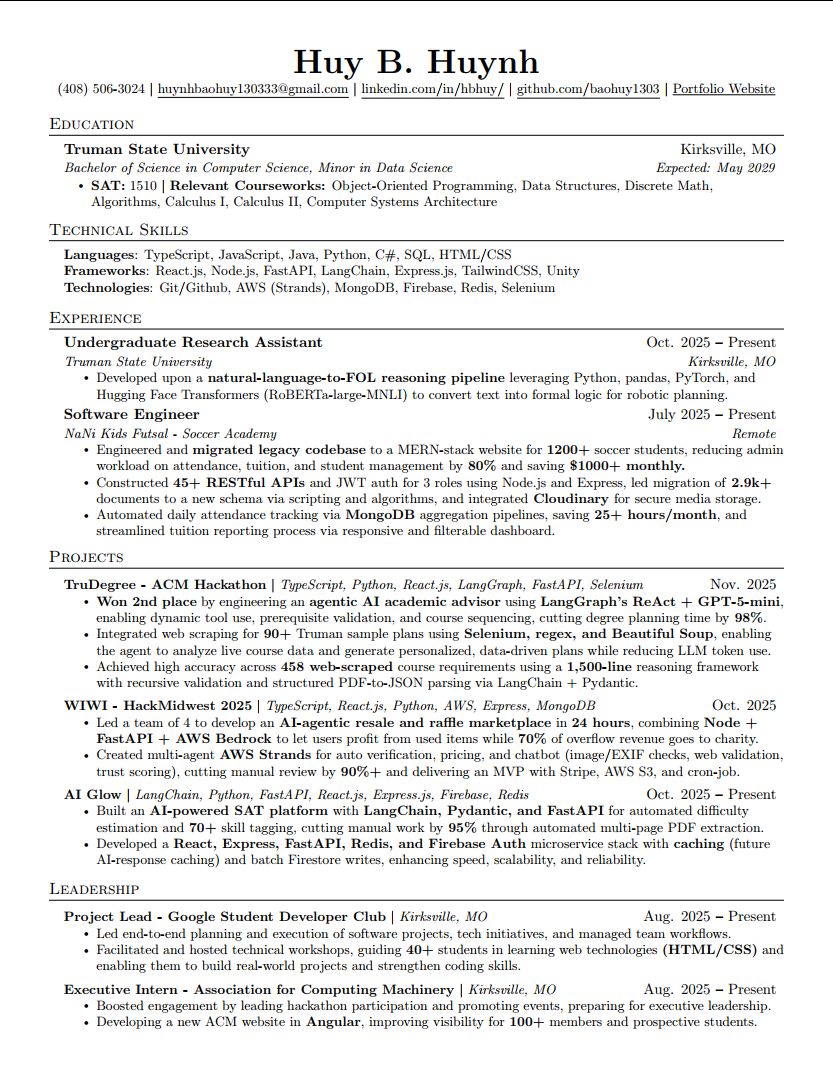
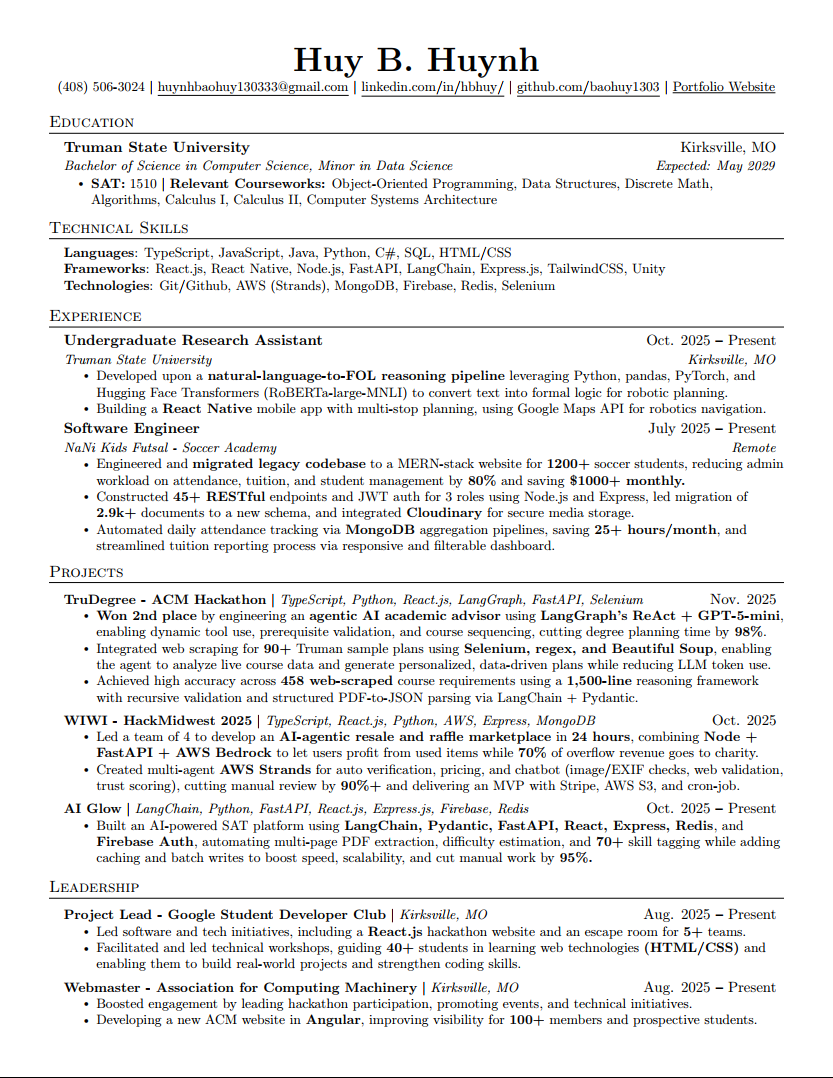
update replace res

Changed region(s): [[0.0624, 0.0306, 0.9364, 0.949]]

diff --git a/portfolio-web/src/pages/index.tsx b/portfolio-web/src/pages/index.tsx
@@ -84,6 +84,7 @@ export default function IndexPage() {
       { name: "Node.js", icon: faNode, textCol: "text-green-400" },
       { name: "Express.js", icon: faServer, textCol: "text-gray-400" },
       { name: "TailwindCSS", icon: faWind, textCol: "text-teal-400" }, // custom
+      { name: "React Native", icon: faReact, textCol: "text-blue-400" },
       { name: "jQuery", icon: faCode, textCol: "text-blue-500" },
       { name: "EJS", icon: faCode, textCol: "text-gray-500" },
       { name: "Bootstrap", icon: faBootstrap, textCol: "text-purple-500" },
@@ -417,6 +418,10 @@ export default function IndexPage() {
                                                   <p>
                                                       • Implemented <span className="font-bold bg-gradient-to-r from-teal-400 to-yellow-200 bg-clip-text text-transparent">data validation, aggregation, and reproducible I/O workflows</span>, improving experiment reliability, logical form accuracy, and downstream reasoning consistency.
                                                   </p>
+                                                  <p>
+                                                      • Built a <span className="font-bold bg-gradient-to-r from-purple-500 to-pink-400 bg-clip-text text-transparent">React Native</span> mobile app with multi-stop planning, leveraging <span className="font-bold bg-gradient-to-r from-green-400 to-blue-500 bg-clip-text text-transparent">Google Maps API</span> for robotics navigation to optimize route planning and path execution.
+                                                  </p>
+                                                  
                                               </div>
                                               <div className="mb-5">
                                                   <p className="text-sm">
@@ -801,11 +806,7 @@ export default function IndexPage() {
                                               <Divider orientation="horizontal" />
                                               <div className="flex flex-col gap-2 mb-5">
                                                   <p>
-                                                      • Led end-to-end planning
-                                                      and execution of software
-                                                      projects and tech
-                                                      initiatives and managed
-                                                      team workflows.
+                                                      • Led software and tech initiatives, including a <span className="font-bold bg-gradient-to-r from-green-400 to-teal-400 bg-clip-text text-transparent">React.js</span> hackathon website and an escape room for <span className="font-bold bg-gradient-to-r from-yellow-400 to-orange-500 bg-clip-text text-transparent">5+ teams</span>.
                                                   </p>
                                                   <p>
                                                       • Facilitated technical
